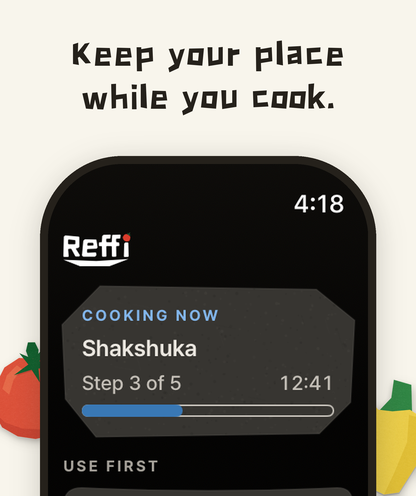
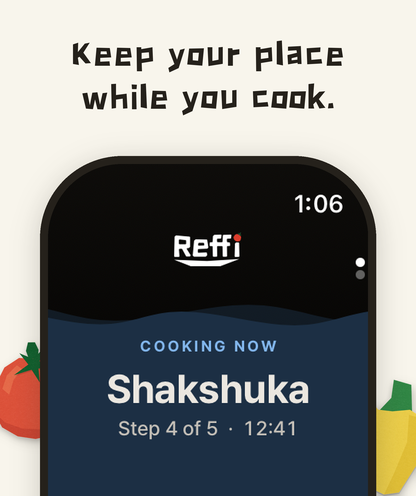
Recapture watch store screenshots with the water gauge
Real Shakshuka data with 3 of 5 steps checked, en-US and ko, all four
captured in the same minute. The 1.2 (34) set in App Store Connect
still shows the paper card and stays at e8092fe until a build with the
gauge ships.

diff --git a/release/app-store/README.md b/release/app-store/README.md
@@ -12,6 +12,8 @@ Store changes for 1.2: localized What's New from `1.2-WHATS_NEW.md` (en-US and k
 
 Resubmitted the same day at about 4:25 AM Pacific time to replace the Apple Watch screenshots with marketing versions. 1.2 was removed from review (`Developer Rejected`), the en-US watch screenshots were deleted and replaced, Korean got its own set instead of inheriting en-US, and the same build 34 went back to `Waiting for Review`. Files in `watch/`, uploaded in this order: `en-US-1-use-first.png`, `en-US-2-cooking.png`, `ko-1-use-first.png`, `ko-2-cooking.png`. Each is 416 x 496: a real Series 11 46 mm simulator capture (the watch app with `-glanceFixture`, fed the phone app's own `glance.json`; all four taken in the same minute) in an ink bezel under an OK DanDan headline, with paper-cut glyphs from `site/resources/` picked from that scene's data (tomato and pepper for Shakshuka, mushroom and broccoli for the fridge list). App Store Connect masks watch screenshots to a rounded watch shape, so the lower corners of the glyphs are clipped in its preview.
 
+Next release (not in 1.2): `watch/` now holds screenshots of the redesigned watch cooking page (full-screen water gauge, branch `feature/watch-cook-wave`). The cooking shots use real data with 3 of 5 steps checked ("Step 4 of 5"), and all four were captured in the same minute. The files uploaded for 1.2 (34) show the old paper cook card and are at commit `e8092fe`. Upload the new set only together with a build that contains the gauge.
+
 Open: phone-to-watch sync was confirmed in paired simulators (delivery was slow) but not yet on a real iPhone and Apple Watch.
 
 ---
